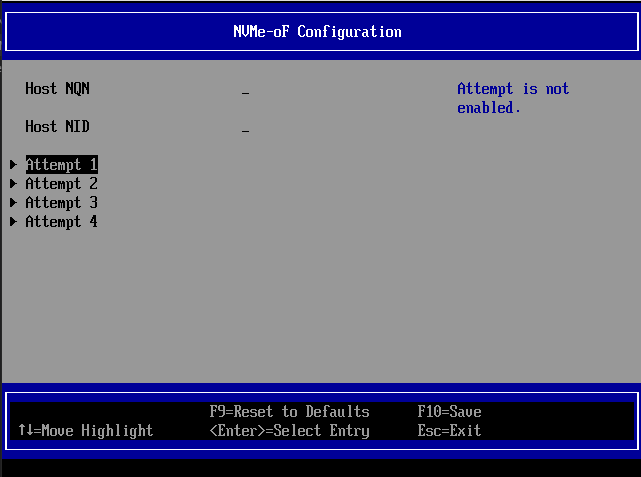
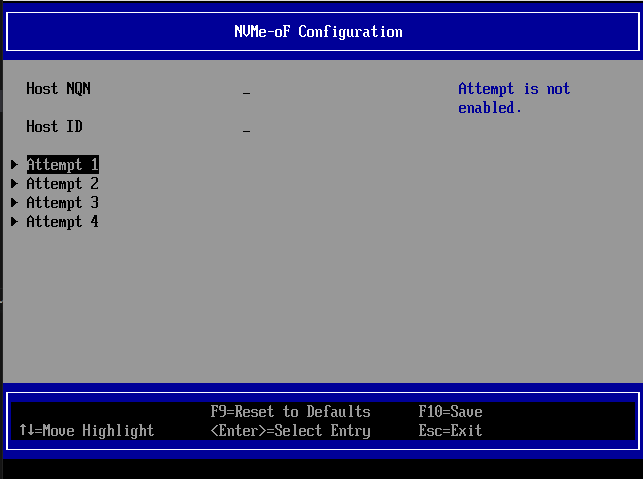
NetworkPkg/NvmeOfDxe: Convert Host NID to Host ID

diff --git a/NetworkPkg/NvmeOfDxe/readme.md b/NetworkPkg/NvmeOfDxe/readme.md
@@ -873,7 +873,7 @@ Table 2. Mapping of the HII’s NVMEOF\_CONFIG\_IFR\_NVDATA struct to the displa
 | **Variable name**              | **Display name**         | **Default value**                                                            | **Description**                                                                                                                                                                                                                                                                                                |
 | ------------------------------ | ------------------------ | ---------------------------------------------------------------------------- | -------------------------------------------------------------------------------------------------------------------------------------------------------------------------------------------------------------------------------------------------------------------------------------------------------------- |
 | NvmeofHostNqn                  | Host NQN                 | Blank                                                                        | “nqn.” Followed by a non-zero payload & terminated with a null-character.                                                                                                                                                                                                                                      |
-| NvmeofHostId                   | Host NID                 | Blank                                                                        | UUID format.                                                                                                                                                                                                                                                                                                   |
+| NvmeofHostId                   | Host ID                  | Blank                                                                        | UUID format.                                                                                                                                                                                                                                                                                                   |
 | AttemptName                    | NVMe-oF Attempt Name     | Automatically configured                                                     | Formatted as “Attempt \<\#\>”                                                                                                                                                                                                                                                                                  |
 | Enabled                        | NVM Subsystem            | Disabled                                                                     | Enable/Disable the specific NVMe-oF attempt.                                                                                                                                                                                                                                                                   |
 | NvmeofSubsysMacString          | NVMe-oF Network Device   | Blank, automatically filled via user selection in “Network Device List” form | Formatted as standard or VLAN-tagged MAC string ( xx:xx:xx:xx:xx:xx or xx:xx:xx:xx:xx:xx\\000A)                                                                                                                                                                                                                |
@@ -975,7 +975,7 @@ Figure 1. Main form entry for NVMe-oF configuration.
 
 #### 8.4.2. NVMe-oF main form, non-configured
 
-The main NVMe-oF configuration form contains fields for Host NQN, Host NID, and a dynamically created list of available attempts from “Attempt 1” to the maximum value defined by PcdMaxNvmeOfAttemptNumber.
+The main NVMe-oF configuration form contains fields for Host NQN, Host ID, and a dynamically created list of available attempts from “Attempt 1” to the maximum value defined by PcdMaxNvmeOfAttemptNumber.
 
 <img src="media/image047.png" style="width:4.3284in;height:3.25in" />
 
